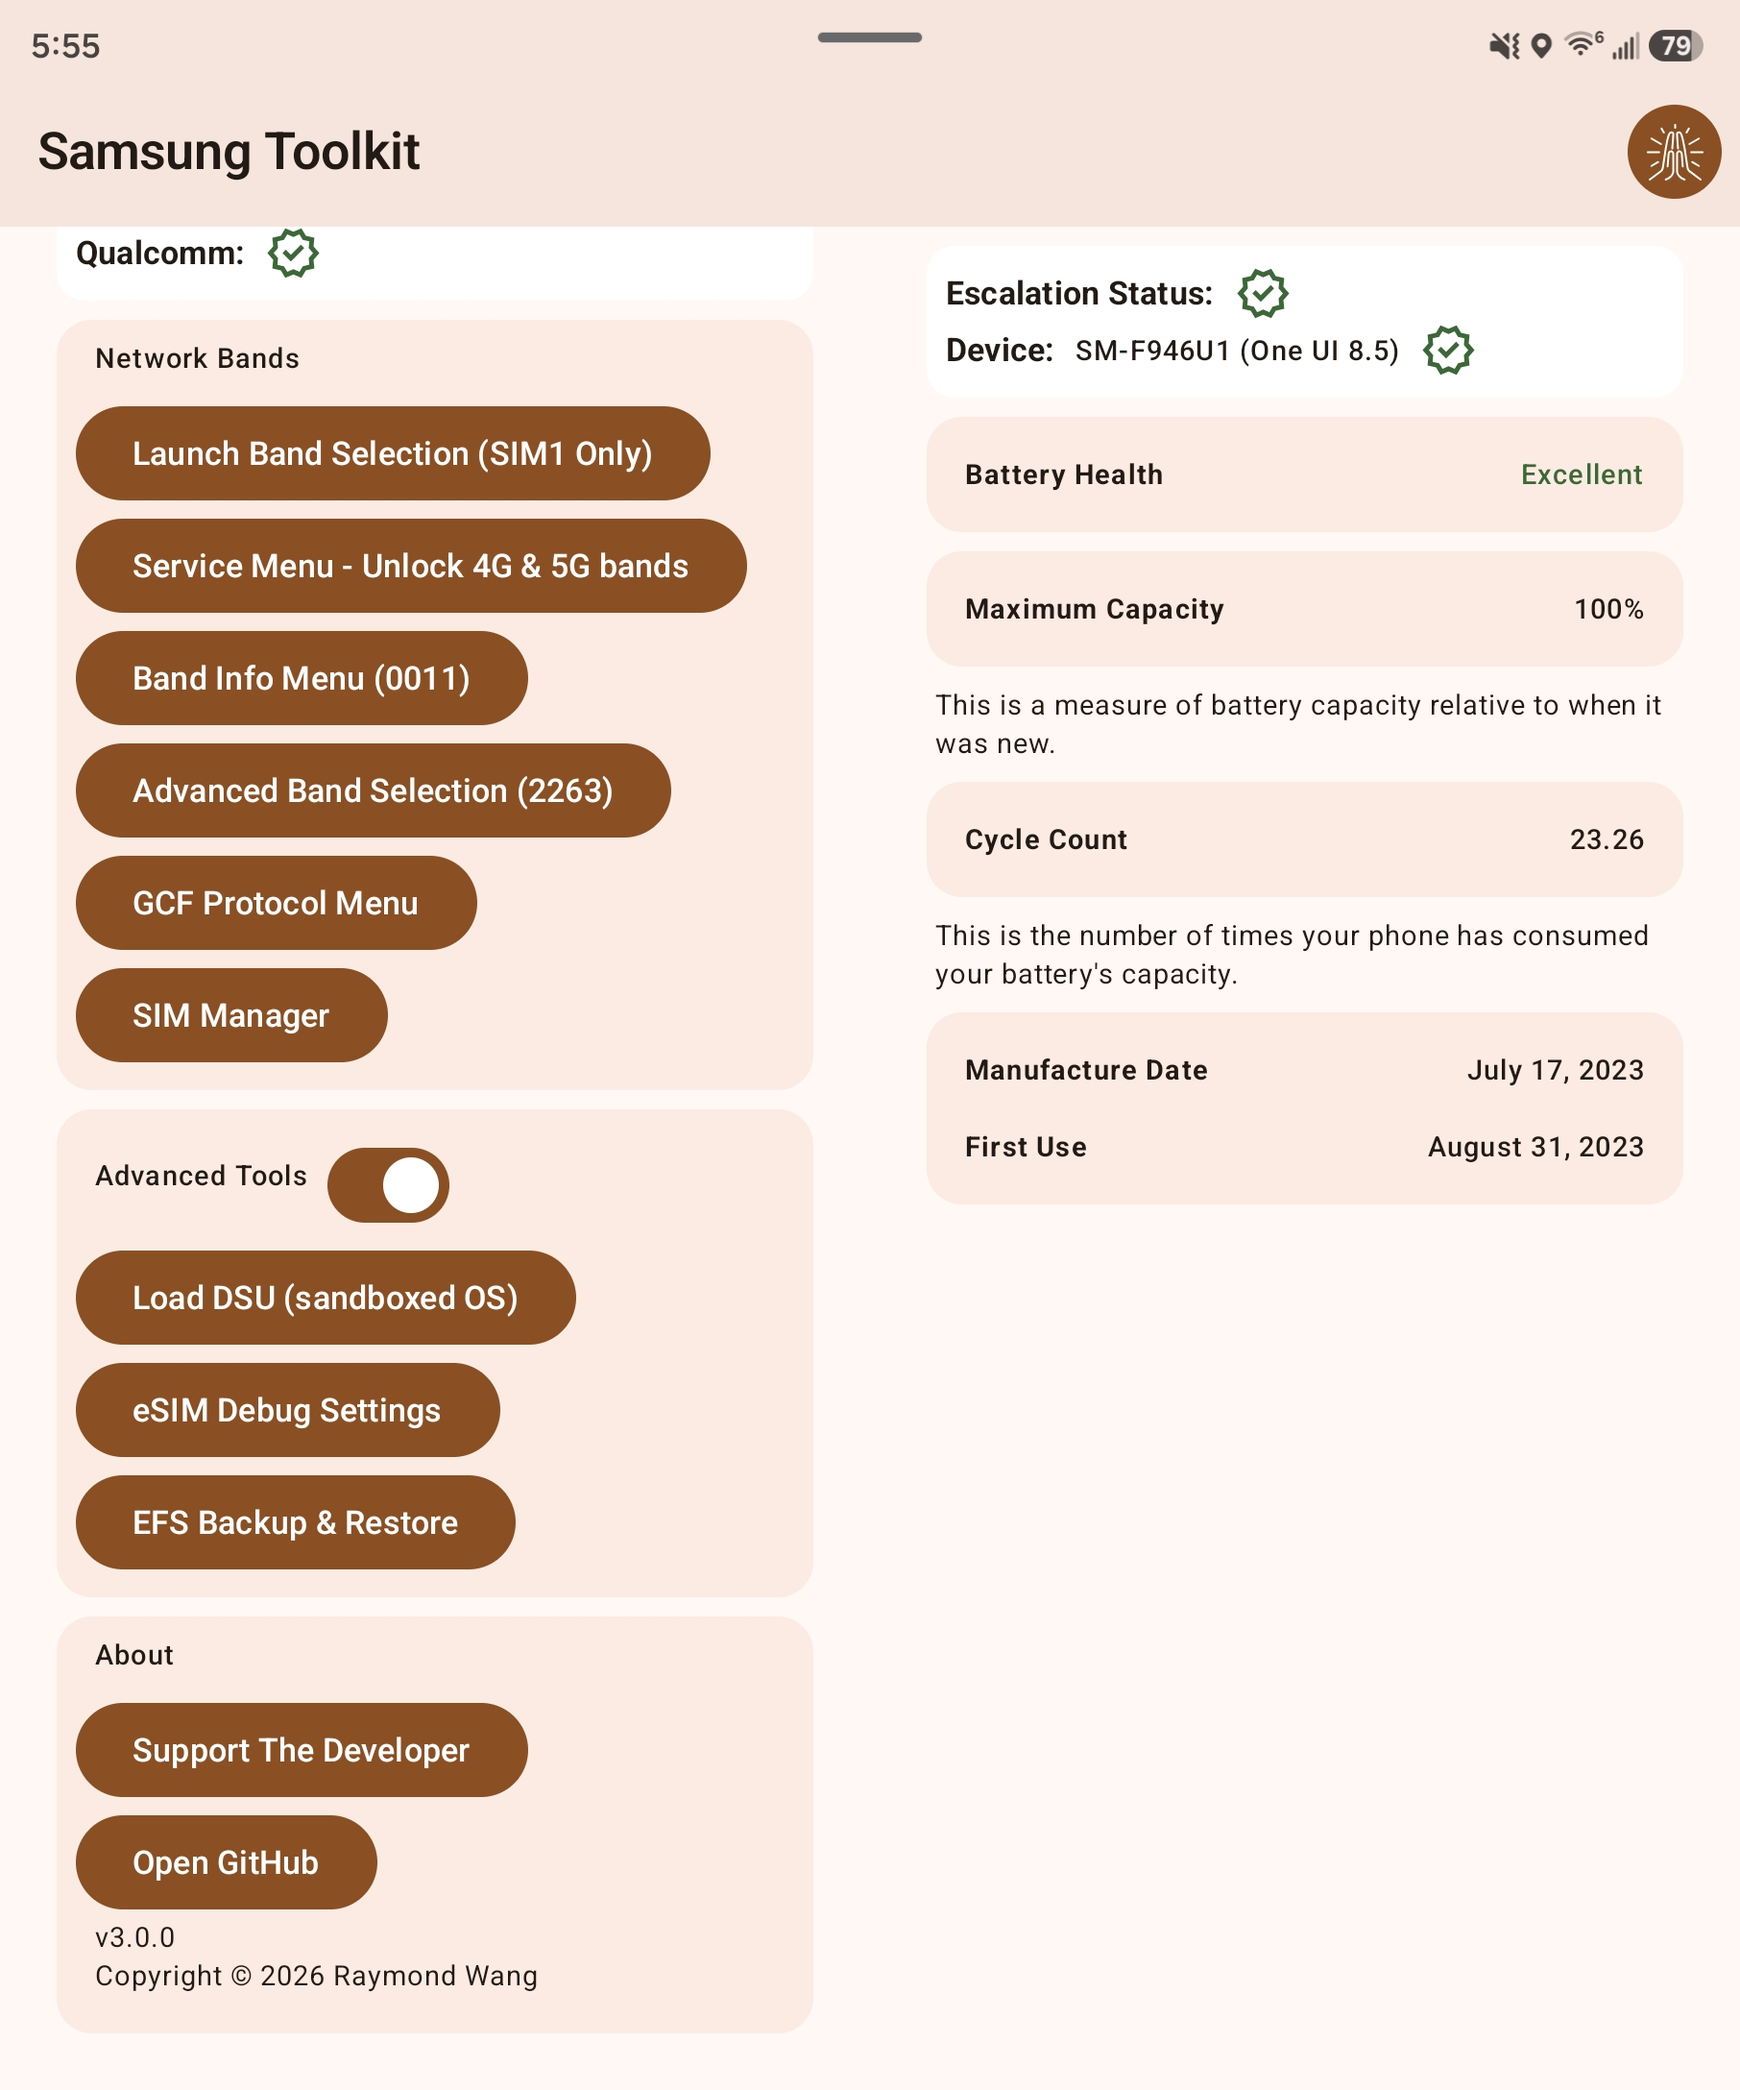
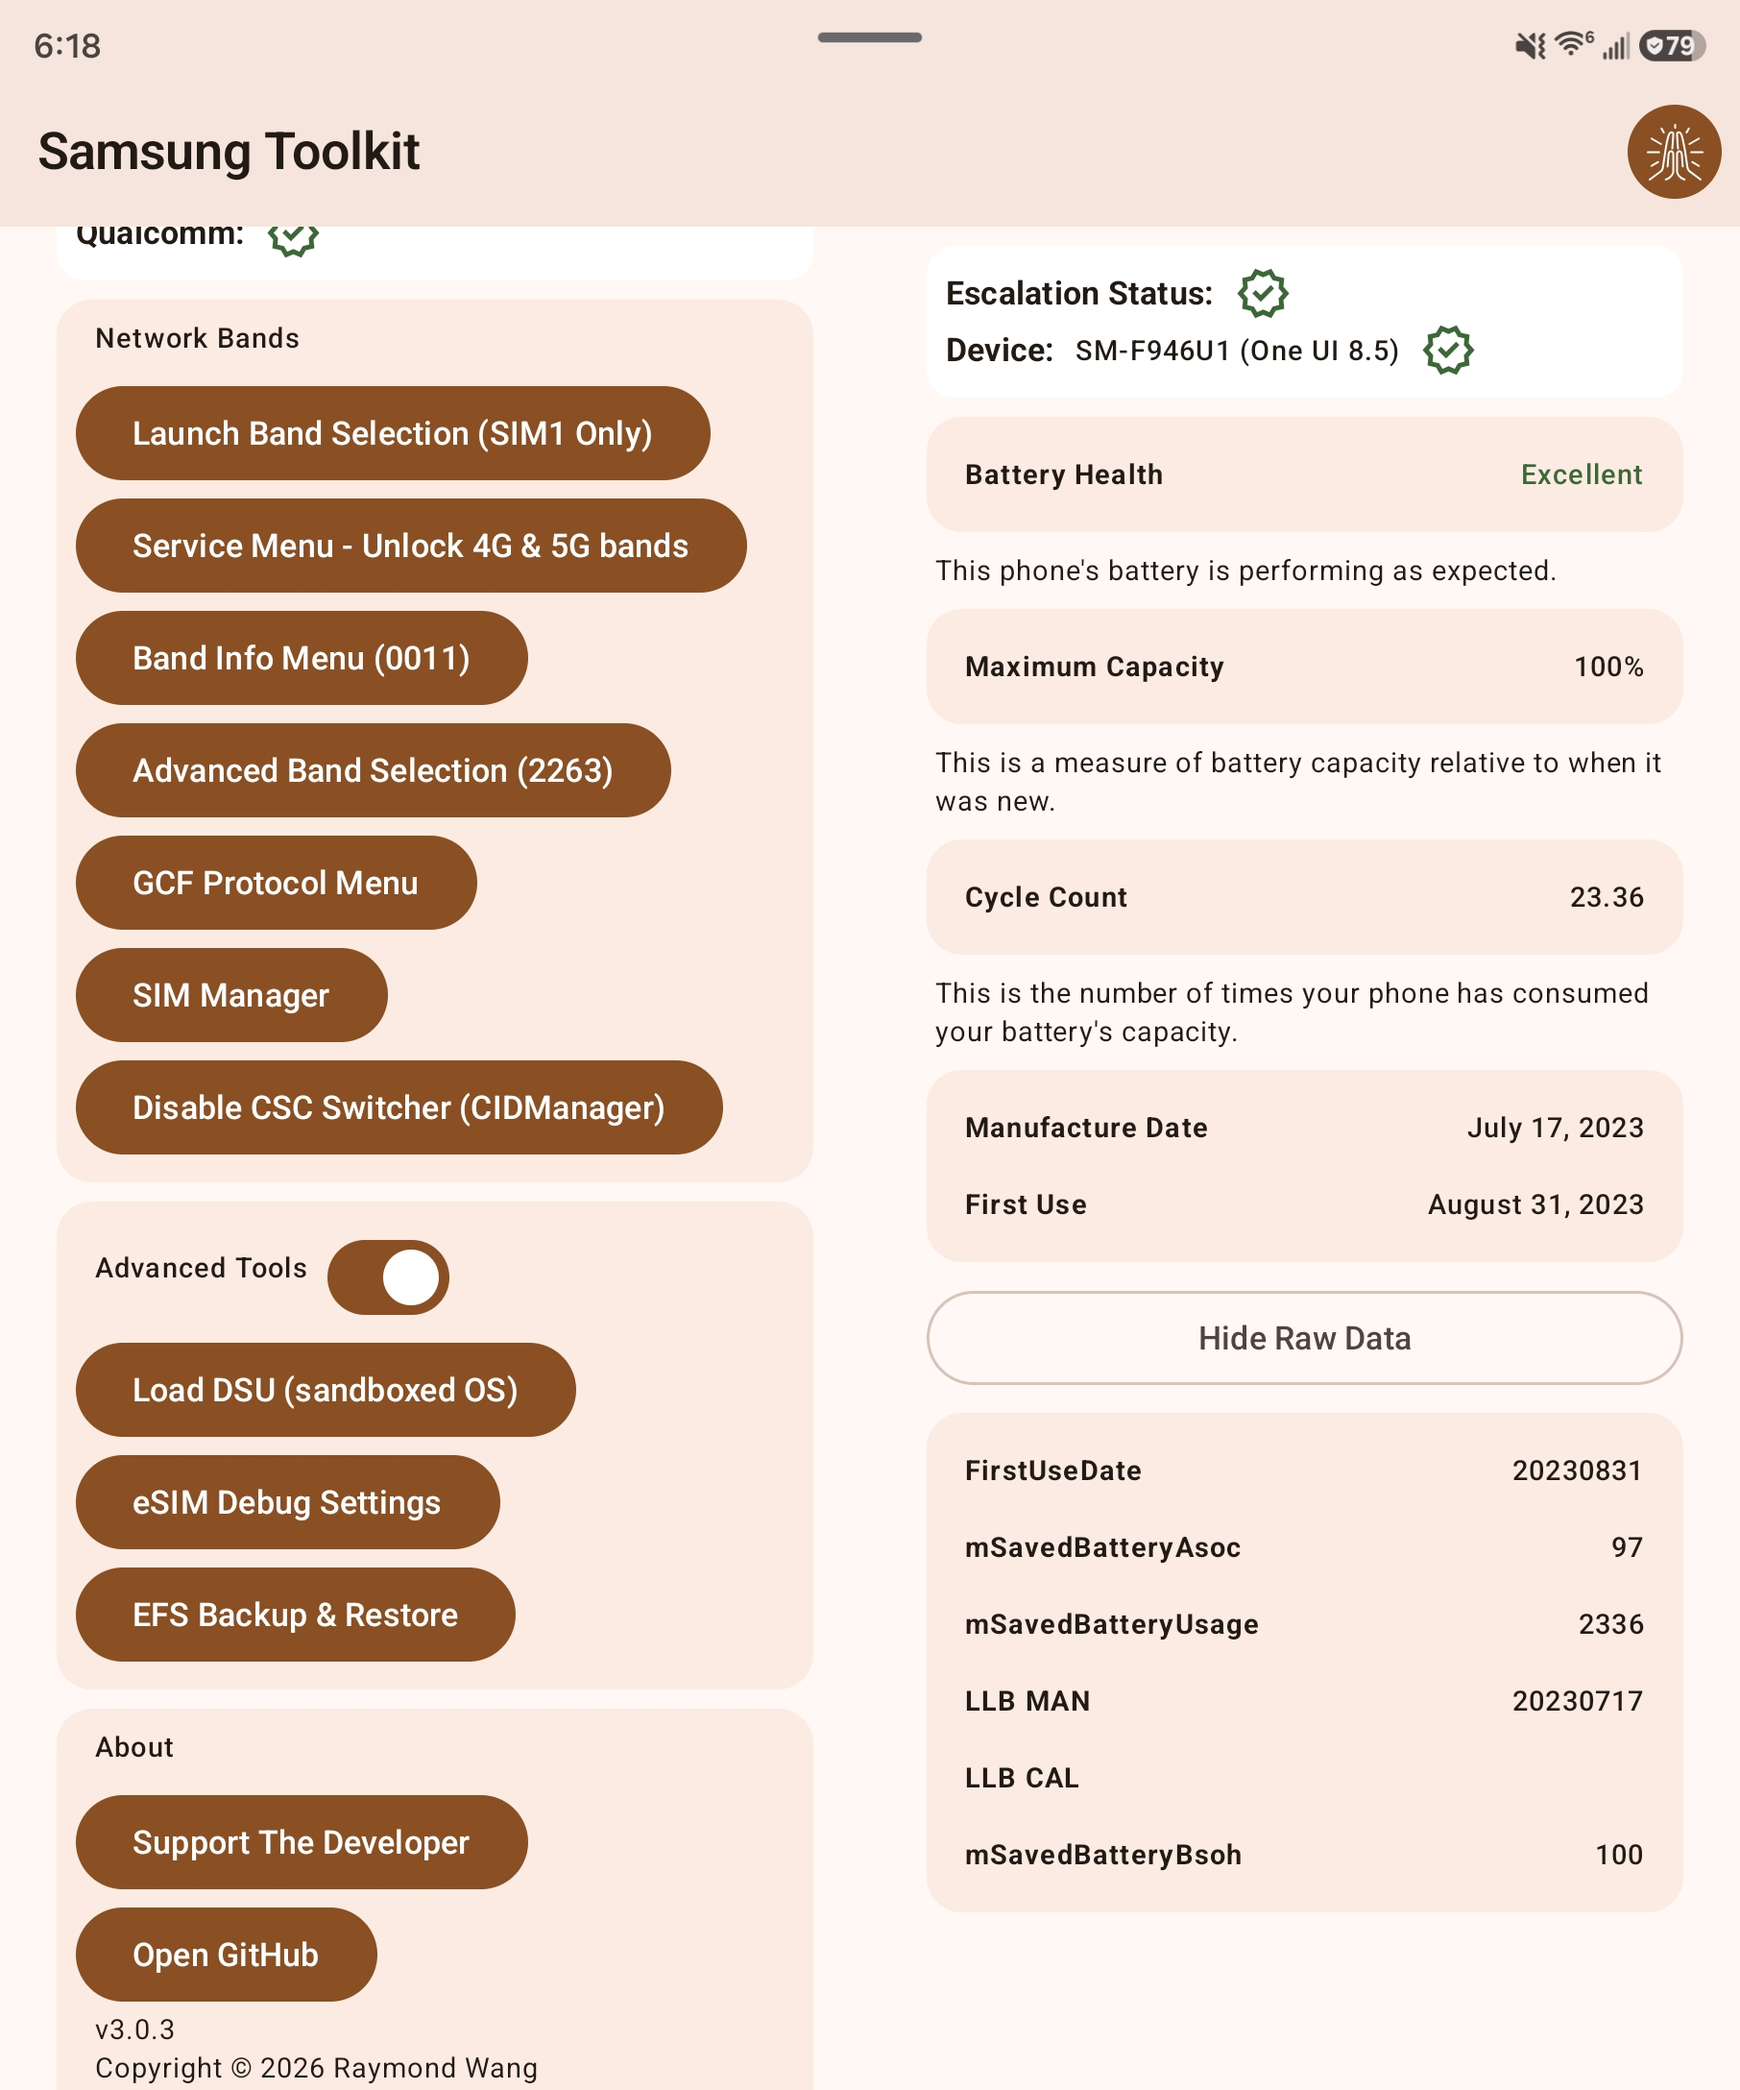
3.0.3

diff --git a/README.md b/README.md
@@ -14,9 +14,13 @@ Including the ability to,
 
 - Access the SIM Manager directly
 
+- Disable/enable CID Manager (CSC Switching on SIM swaps)
+
 - Load Dynamic System Update Mode (DSU, sandboxed OS)
 
 - Access hidden EFS menu
+
+and more!
 
 Fully supports foldable devices!
 
